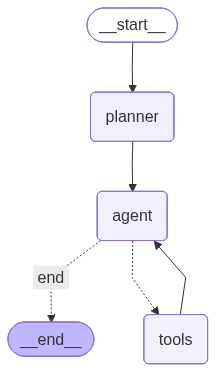
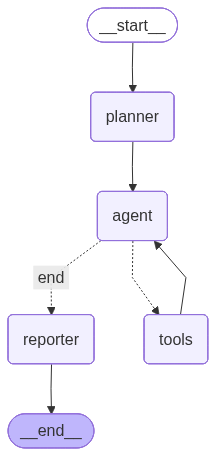
refactor: 统一工具结构化输出并升级Reporter节点

diff --git a/tools.py b/tools.py
@@ -1,5 +1,6 @@
 from langchain_core.tools import tool
 from pydantic import BaseModel, Field
+from typing import List,Optional
 
 from config import get_yolo
 from logger import get_logger
@@ -7,18 +8,20 @@ from rag import retrieve_docs
 from utils import PixelToRealConverter
 
 
+import json
+
 log = get_logger(__name__)
 yolo_model = get_yolo()
 
 
 @tool(description="使用YOLO模型识别图像中的裂缝信息。")
-def predict_image_crack(image_path: str) -> str:
+def predict_image_crack(image_path: str) -> json:
     """
     识别图片中的裂缝信息。
     参数:
     image_path: 图片文件路径
     返回:
-    str: 包含裂缝分类、定位和尺寸信息的格式化字符串
+    json: 包含裂缝分类、定位和尺寸信息
     """
     try:
         log.info("开始裂缝识别: %s", image_path)
@@ -47,18 +50,21 @@ def predict_image_crack(image_path: str) -> str:
             real_width_cm = converter.convert(width, gsd) / 10
             real_height_cm = converter.convert(height, gsd) / 10
 
-            output.append(
-                f"裂缝{i + 1} [{class_name}]: "
-                f"中心坐标({x_center:.1f}, {y_center:.1f}), "
-                f"尺寸{real_width_cm:.1f}cmx{real_height_cm:.1f}cm, "
-                f"置信度{confidence:.2f}"
-            )
+            output.append({
+                "id": i + 1,
+                "disease_type": class_name,
+                "confidence": round(confidence, 2),
+                "dimensions": {
+                    "width_cm": real_width_cm,
+                    "length_cm": real_height_cm
+                }
+            })
 
         if not output:
-            return "未检测到裂缝"
+            return json.dumps({"status": "success", "data": [], "message": "未检测到裂缝"}, ensure_ascii=False)
 
         log.info("裂缝识别完成，目标数: %s", len(output))
-        return "检测结果:\n" + "\n".join(output) + "\n请立即调用RAG检索。"
+        return json.dumps({"status": "success", "data": output}, ensure_ascii=False)
 
     except FileNotFoundError as e:
         log.exception("图片不存在: %s", image_path)
@@ -73,38 +79,47 @@ class RAGInput(BaseModel):
     width_cm: float = Field(0.0, description="宽度")
     length_cm: float = Field(0.0, description="长度")
 
+class DocumentDetail(BaseModel):
+    source: str = Field(description="规范文档名称或来源")
+    content: str = Field(description="具体的规范条文内容")
+    score: float = Field(description="检索匹配相关度评分")
+
+class RAGResponse(BaseModel):
+    status: str = Field(description="执行状态：success 或 failed")
+    data: List[DocumentDetail] = Field(default_factory=list, description="检索到的规范详情列表")
+    message: Optional[str] = Field(None, description="错误信息或提示")
+
 
 @tool(
-    description="""
-当你获取到病害类型和尺寸时，必须调用此工具。
-当需要评估病害严重等级或获取标准养护规范时，必须调用此工具。
-""",
+    description="评估病害严重等级或获取标准养护规范。",
     args_schema=RAGInput,
 )
 def get_retrieve_docs(
     disease_type: str, width_cm: float = 0.0, length_cm: float = 0.0
 ) -> str:
-    """当需要评估病害严重等级或获取标准养护规范时，必须调用此工具。"""
-    query = f"""
-请根据病害类型和尺寸，提供病害严重等级和标准养护规范。
-病害类型: {disease_type},
-宽度: {width_cm}cm,
-长度: {length_cm}cm
-"""
-    log.info("执行结构化 RAG 检索: disease_type=%s", disease_type)
-    return retrieve_docs(query, k=3, score_threshold=0.3)
+    """当获取到病害尺寸后，调用此工具获取对应的养护标准。"""
+    query = f"病害类型: {disease_type}, 尺寸: 宽{width_cm}cm, 长{length_cm}cm 的养护分级和措施"
+    log.info("执行结构化 RAG 检索")
+    
+    try:
+        docs = retrieve_docs(query)
+        if not docs:
+            return RAGResponse(status="failed", message="库中未找到匹配的养护规范").model_dump_json()
+        
+        # 返回标准的 JSON 字符串
+        return RAGResponse(status="success", data=docs).model_dump_json()
+    except Exception as e:
+        return RAGResponse(status="error", message=str(e)).model_dump_json()
 
-
-@tool(
-    description="""
-当用户提问道路病害相关信息时必须调用此工具查询《公路技术状况评定标准》。
-当需要评估病害严重等级或获取标准养护规范时，必须调用此工具。
-"""
-)
+@tool(description="查询《公路技术状况评定标准》中的相关信息。")
 def query_retrieve_docs(query: str) -> str:
+    """自由查询道路病害相关技术规范。"""
     log.info("执行自由查询 RAG 检索")
-    return retrieve_docs(query, k=3, score_threshold=0.3)
-
+    try:
+        docs = retrieve_docs(query)
+        return RAGResponse(status="success", data=docs).model_dump_json()
+    except Exception as e:
+        return RAGResponse(status="error", message=str(e)).model_dump_json()
 
 if __name__ == "__main__":
     pass

diff --git a/graph.py b/graph.py
@@ -30,7 +30,12 @@ def planner_node(state: RoadDiseaseState):
     user_input = messages[-1].content
     
     prompt = ChatPromptTemplate.from_messages([
-        ("system", "你是一个公路养护规划专家。请根据用户的需求，将其拆解为2到3个具体的执行步骤。如果涉及图片必须先进行视觉识别，如果涉及评估必须查阅规范。"),
+        ("system", """
+            你是一个公路养护规划专家。
+            请根据用户的需求，将其拆解为2到3个具体的执行步骤。
+            如果涉及图片必须先进行视觉识别，如果涉及评估必须查阅规范。
+            视觉识别能够自动读取本地或者在线图片
+          """),
         ("user", "{input}")
     ])
     
@@ -41,6 +46,32 @@ def planner_node(state: RoadDiseaseState):
     log.info(f"生成计划: {result.steps}")
     return {"plan": result.steps}
 
+def reporter_node(state: RoadDiseaseState):
+    log.info("进入 Reporter 节点，生成最终养护方案")
+    messages = state.get("messages", [])
+    
+    prompt = ChatPromptTemplate.from_messages([
+        ("system", """你是一位资深的公路养护总工。
+请仔细阅读对话历史中工具返回的 JSON 结构化数据（包含视觉识别结果和规范检索结果）。
+请严格基于这些客观数据，输出一份专业的《路面病害评估与养护方案》。
+
+报告要求结构清晰，包含：
+1. 病害基本信息 (汇总识别到的类型、尺寸)
+2. 规范判定依据 (引用检索到的规范条文)
+3. 处治措施建议 (基于规范给出的具体施工步骤)
+
+注意：
+- 绝不允许编造任何尺寸或数据！如果工具数据为空或失败，请如实说明。
+- 不要暴露底层的 JSON 格式，直接输出排版良好的专业文字报告。
+- 不允许再调用任何工具。"""),
+        MessagesPlaceholder("messages"),
+    ])
+    
+    # 确保这里使用的是云端大模型，且没有 bind_tools
+    chain = prompt | get_cloud_llm() 
+    result = chain.invoke({"messages": messages})
+    
+    return {"maintenance_plan": result.content, "messages": [result]}
 
 def create_agent(llm, tools):
     # 把系统提示词硬编码进去了，因为后续会动态注入状态
@@ -88,13 +119,16 @@ def build_graph(need_draw: bool = False):
     # 注册节点
     builder.add_node("planner", planner_node)
     builder.add_node("agent", agent_decision)
+    builder.add_node("reporter", reporter_node)
     builder.add_node("tools", tools_node)
     
-    # 编排流程：START -> planner -> agent <-> tools -> END
+    
+    # 编排流程
     builder.add_edge(START, "planner")
     builder.add_edge("planner", "agent")
-    builder.add_conditional_edges("agent", route, {"tools": "tools", "end": END})
     builder.add_edge("tools", "agent")
+    builder.add_conditional_edges("agent", route, {"tools": "tools", "end": "reporter"})
+    builder.add_edge("reporter", END)
     
     graph = builder.compile(checkpointer=memory)
     if need_draw:

diff --git a/rag.py b/rag.py
@@ -6,8 +6,8 @@ log = get_logger(__name__)
 vector_store = get_chroma()
 
 
-def retrieve_docs(query: str, k: int = 2, score_threshold=None) -> str:
-    """搜索相似文本，可选相似度阈值过滤。"""
+def retrieve_docs(query: str, k: int = 2, score_threshold=None) -> list:
+    """搜索相似文本，返回结构化字典列表。"""
     results = vector_store.similarity_search_with_score(query=query, k=k)
 
     if score_threshold is not None:
@@ -16,15 +16,17 @@ def retrieve_docs(query: str, k: int = 2, score_threshold=None) -> str:
     log.info("RAG 检索完成，query=%s, 返回=%s", query[:40], len(results))
 
     if not results:
-        return "未检索到相关资料。"
+        return []
 
-    lines = []
-    for i, (doc, score) in enumerate(results, 1):
-        lines.append(f"文档 {i} (相似度 {score:.3f}):")
-        lines.append(f"来源: {doc.metadata.get('source', '未知')}")
-        lines.append(f"内容: {doc.page_content}")
-        lines.append("")
-    return "\n".join(lines).strip()
+    docs_data = []
+    for doc, score in results:
+        docs_data.append({
+            "source": doc.metadata.get('source', '未知'),
+            "similarity_score": round(float(score), 3),
+            "content": doc.page_content
+        })
+        
+    return docs_data
 
 
 if __name__ == "__main__":

diff --git a/streamlit_app.py b/streamlit_app.py
@@ -4,7 +4,7 @@ from uuid import uuid4
 import streamlit as st
 
 from graph import build_graph
-
+from config import get_local_llm, get_cloud_llm
 
 UPLOAD_DIR = Path("temp_uploads")
 UPLOAD_DIR.mkdir(exist_ok=True)
@@ -60,6 +60,8 @@ def ask_agent(user_text: str, image_path: str = "") -> str:
 
 
 def main() -> None:
+    get_local_llm()
+    get_cloud_llm()
     st.set_page_config(page_title="路面病害智能问答", layout="wide")
     st.title("路面病害智能问答")
     st.caption("基于 YOLO + RAG + LangGraph 的 Streamlit 界面")

diff --git a/logger.py b/logger.py
@@ -1,18 +1,16 @@
 import logging
 import os
 
-
 _FORMAT = "%(asctime)s | %(levelname)s | %(name)s | %(message)s"
 _DEFAULT_LEVEL = "INFO"
-
 
 def setup_logging() -> None:
     if logging.getLogger().handlers:
         return
-    level_name = os.getenv("LOG_LEVEL", _DEFAULT_LEVEL).upper()
+    
+    level_name = _DEFAULT_LEVEL
     level = getattr(logging, level_name, logging.INFO)
     logging.basicConfig(level=level, format=_FORMAT)
-
 
 def get_logger(name: str) -> logging.Logger:
     setup_logging()
